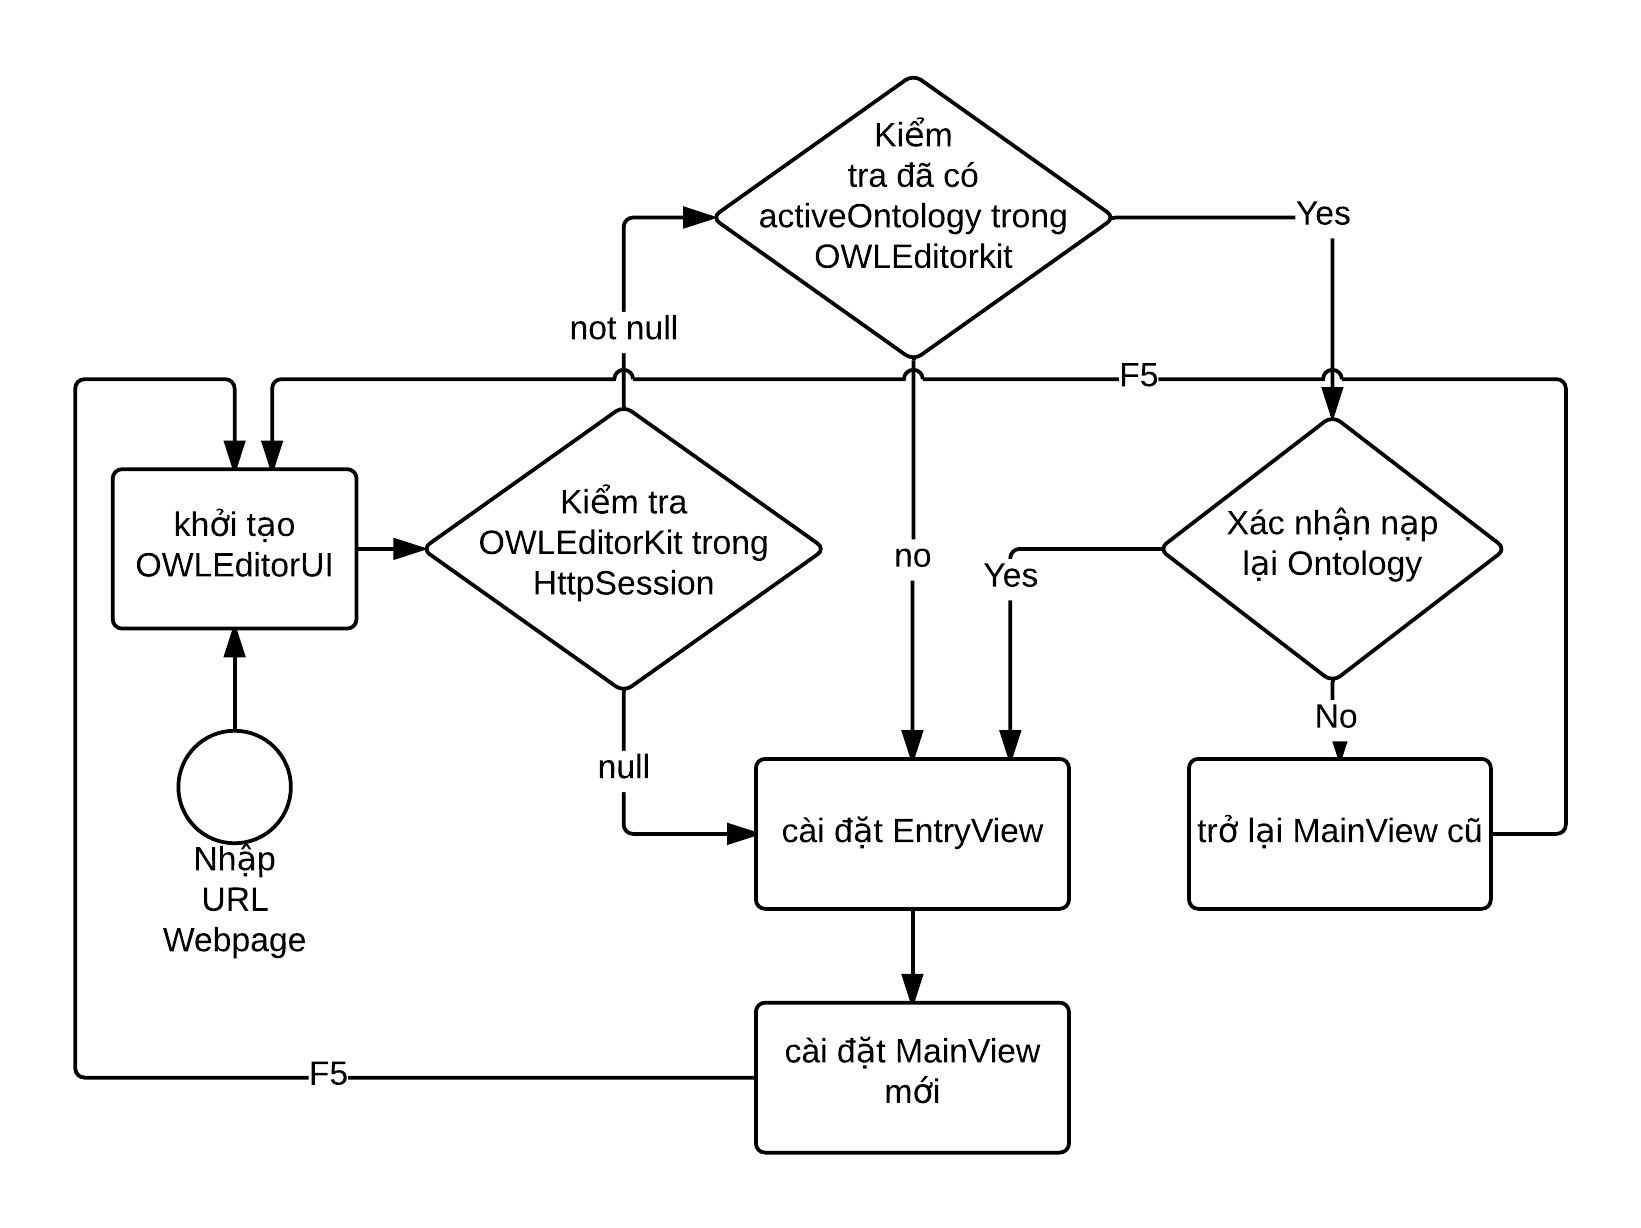
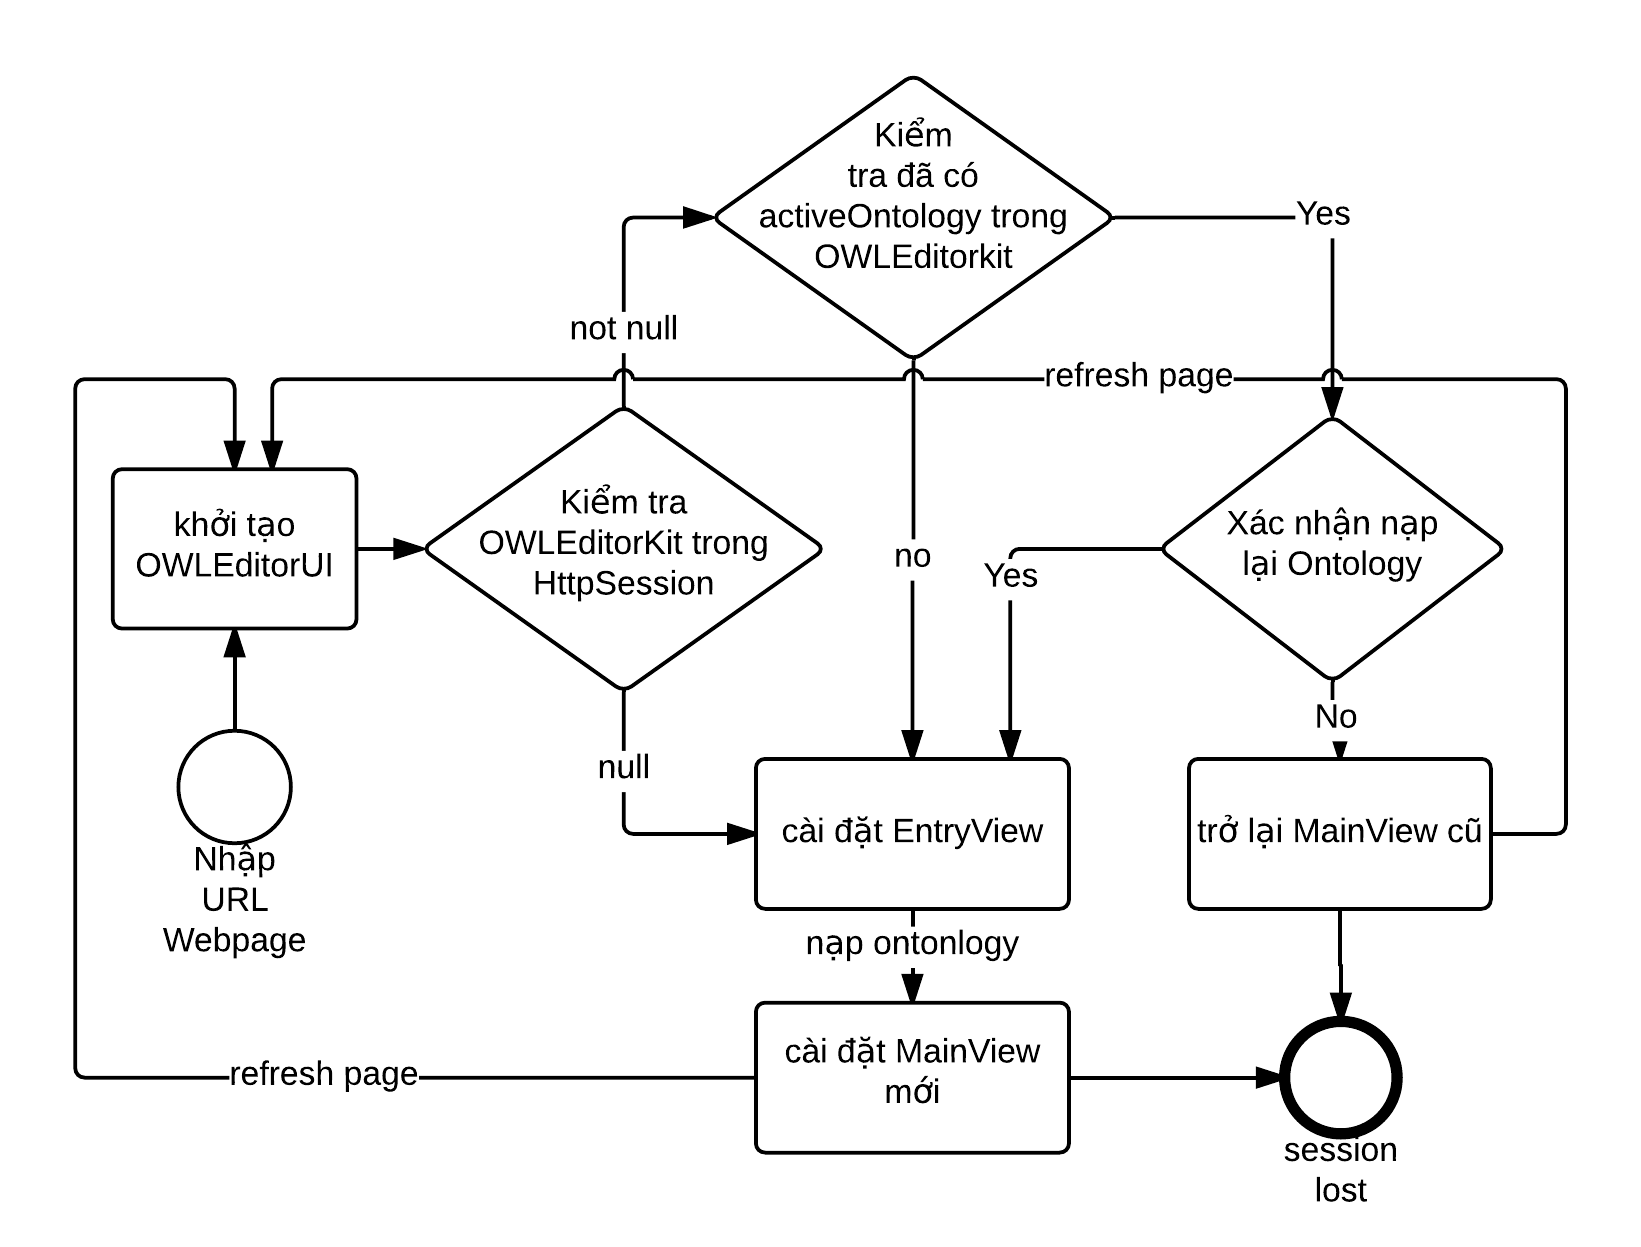
Wrote OWLEditorUI

diff --git a/Chapters/xaydunghethong.tex b/Chapters/xaydunghethong.tex
@@ -1,23 +1,73 @@
 \chapter{Xây dựng hệ thống phân loại tự động}
 \paragraph{Giới thiệu} Qua các chương trước, chúng em đã trình bày các cơ sở lý thuyết gồm OWL 2, SWRL, đề ra các thiết kế cho hệ thống và thiết kế một ontology sử dụng cho việc phân loại. Trong chương này, chúng em sẽ trình bày lại quá trình xây dựng hệ thống phân loại dựa trên các thiết kế ở chương trước.
-\section{UI của ứng dụng}
-\subsection{OWLEditorUI}
-Lớp này được mở rộng từ lớp \textbf{UI} của Vaadin, công việc chính của một lớp \textbf{UI} khởi tạo các  giao diện, từ đây lớp UI sẽ đảm nhiệm các công việc như nạp tất cả UI Components được khai báo bên trong, cài đặt các event listener để tiếp nhận thao tác từ người dùng. Cuối cùng UI được load lên trình duyệt bằng URL, hoặc được nhúng vào bất kì trang HTML nào \cite{vaadinarchitecture}. OWLEditorUI mở rộng các chức năng trên như sau:
+\section{UI của ứng dụng - OWLEditorUI}
+\subsection{Giới thiệu OWLEditorUI}
+Lớp này được mở rộng từ lớp \textbf{UI} của Vaadin - chức năng cơ bản của \textbf{UI} là nơi khởi tạo mọi thành phần giao diện và trình bày nó dưới dạng HTML trên web page, OWLEditorUI mở rộng các chức năng trên như sau:
 \begin{itemize}
-\item Chứa EntryView, MainView.
+\item Chứa EntryView, MainView (các View này chứa tất cả thành phần giao diện của hệ thống)
 \item Cập nhật và cài đặt MainView khi ontology được nạp vào EntryView.
 \item Cập nhật trạng thái khi người dùng refresh trang.
-\item Khởi tạo OWLEditorKit và cung cấp nó dưới dụng phương thức tĩnh
-\begin{verbatim}
-@Autowired OWLEditorKit eKit;
-public static OWLEditorKit getOWLEditorKit() {
-  ((OWLEditorUI) UI.getCurrent()).eKit; }
-\end{verbatim}
-\item EventBus cũng được cung cấp tương tự 
-\begin{verbatim}
-@Autowired OWLEditorEventBus eventBus;
-public static OWLEditorEventBus getEventBus() {
-  ((OWLEditorUI) UI.getCurrent()).eventBus; }	
-}
-\end{verbatim}
+\item Khởi tạo OWLEditorKit một lần và cung cấp nó qua phương thức tĩnh \textit{getOWLEditorKit()} 
+\item Khới tạo EventBus một lần và cung cấp qua các phương thức tĩnh sau \textit{getGuavaEventBus()}
+\item Chứa HttpSession và cung cấp qua phương thức tĩnh \textit{getHttpSession()} 
 \end{itemize}
+\subsection{Chi tiết các chức năng của OWLEditorUI}
+Trước khi đi vào chi tiết các chức năng trên, chúng em muốn giới thiệu sơ quan về việc cách Spring Boot \cite{springboot} hoạt động, các Annotation cần được sử dụng trong việc xây dựng hệ thống.
+\\
+\textbf{Spring Boot} Khi chương trình khởi động - ở đây không nói đến khi chúng ta nhập URL vào webpage mà chúng em đang muốn nói đến khi chương trình được nạp vào một hệ thống Servlet như Tomcat, Jetty thì điểm đầu tiên của nó xuất phát sẽ từ đối tượng sau:
+\begin{verbatim}
+@SpringBootApplication public class OWLEditorApplication {
+    public static void main(String[] args) {
+       SpringApplication.run(OWLEditorApplication.class, args); }
+}
+\end{verbatim} 
+@SpringBootApplication là một tên thay thế cho 3 annotation gồm \textbf{@Configuration}, \textbf{@EnableAutoConfiguration} và \textbf{@ComponentScan} (sẽ được giới thiệu ở dưới), mục tiêu của đối tượng này là khởi động ứng dụng, quét hết trong package hiện hành tới package con để tìm các Component Bean cần thiết để khởi tạo và thực thi các Bean đó. Cụ thể ở đây, nó sẽ quét vào tìm thấy \textbf{OWLEditorUI} được đánh dấu bằng \textbf{@VaadinUI} và chạy theo cấu hình có săn được định nghĩa trong theo dự án Spring 4 Vaadin \cite{spring4vaadin}. Từ đây mọi thứ sẽ diễn ra trong \textbf{OWLEditorUI}. Ý nghĩa của các Annotation:
+\begin{itemize}	
+\item \textbf{@VaadinUI} Là annotation của dự án Spring 4 Vaadin \cite{spring4vaadin} khai báo một lớp là một Bean và là một Vaadin \textbf{UI} cho hệ thống Spring Boot.
+\item \textbf{@VaadinComponent} Là annotation của dự án Spring 4 Vaadin, tương tự annotation @Component của Spring Framework: khai báo đây là một Bean cơ bản nhất cho hệ thống Spring Boot.
+\item \textbf{@Repository} Là annotation của Spring Framework, khai báo một đối tượng là một Bean với tính chất là một nơi để lấy và khai thác dữ liệu, OWLEditorKit được khai báo bằng annotation này.
+\item \textbf{@Autowired} Là annotaion của Spring Framework, dùng nạp tự động các Bean đã được khai báo (bằng các annotatio như @VaadinComponent, @Component, @Repository, ...) vào hệ thống, cụ thể chúng em dùng chúng để nạp OWLEditorKit, HttpSession và OWLEditorEventBus vào OWLEditorUI.
+\item \textbf{@Theme} Là annotation của Vaadin dùng để nạp thành phần tùy chỉnh CSS cho toàn bộ giao diện của hệ thống.
+\item \textbf{@EnableAutoConfiguration} Là annotation của Spring Boot, bật tính năng cấu hình tự động (mọi cấu hình về DataBase, Base Url,... sẽ ở trạng thái mặc định).
+\item \textbf{@ComponentScan} Là annotation của Spring, tự động quét và tìm các Bean từ package hiện hành và khởi tạo chúng.
+\item \textbf{@Nonnull} Là annotation từ JSR-305, đảm bảo tham số nhập vào không được null, nếu null tự động throw NullPointerException.
+\end{itemize}
+\subsubsection{Sử dụng OWLEditorKit trong OWLEditorUI}
+Như đã nói sơ qua, thì \textbf{OWLEditorKit} được định nghĩa là một Bean của hệ thống nên khi khởi động nó sẽ được tạo ra nhờ tính năng quét Bean vừa giới thiệu. Trong OWLEditorUI, chúng ta sẽ nạp (inject) nó vào OWLEditorUI và tạo một phương thức tĩnh để có thể sử dụng từ các thành phần giao diện như sau:
+\begin{verbatim}
+@Autowired OWLEditorKit eKit; 
+public static OWLEditorKit getOWLEditorKit() {
+  ((OWLEditorKit) UI.getCurrent()).eKit; }
+\end{verbatim}
+Lưu ý: \textit{UI.getCurrent()} là một hàm tiện ích của Vaadin nhằm trả về UI đang chạy hiện hành, trong hệ thống mà chúng em xây dựng chỉ có duy nhất một UI là OWLEditorUI nên sẽ ép kiểu trực tiếp, trong trường hợp có nhiều UI cần lưu ý vấn đề kiểm tra loại UI.Trong source code \cite{owleditorSrc}, chúng em chỉ khai báo Annotation @Repository cho lớp \textit{OWLEditorKitImpl} vậy tại sao @Autowired lại biết mà khởi tạo được ? Câu trả lời là hệ thống sẽ quét và tìm đến các lớp áp dụng interface OWLEditorKit mà có Annotation khai báo để khởi tạo. Để đơn giản ở đây chúng em sẽ dùng hàm khởi tạo mặc định trong OWLEditorKitImpl, ngoài ra còn rất nhiều cách thức @Autowired (hoặc inject) khác có thể tham khảo ở \cite{springboot}.
+\subsubsection{Sử dụng OWLEditorEventBus trong OWLEditorUI}
+Trong thiết kế chúng em sẽ sử dụng \textit{một} EventBus để xử lý sự kiện cho hệ thống, vì vậy sẽ dễ dàng hơn nếu nó được khởi tạo một lần trong OWLEditorUI và cung cấp dưới dạng phương thức tĩnh. Đầu tiên là cấu trúc của một lớp dùng chứa EventBus thật sự và cách tạo ra các hàm tĩnh.
+\begin{verbatim}
+@VaadinComponent public class OWLEditorEventBus {
+  private final EventBus realEventBus = new EventBus(this); //từ Guava API
+  public static void post(@Nonnull final Object event) {
+    OWLEditorUI.getGuavaEventBus().realEventBus.post(event);  }
+  public static void register(@Nonnull final Object obj) { ... } ...
+}
+// Trong OWLEditorUI
+@Autowired OWLEditorEventBus eventBus;
+public static OWLEditorEventBus getGuavaEventBus() {
+  ((OWLEditorKit) UI.getCurrent()).eventBus; }
+\end{verbatim}
+Vậy để sử dụng Guava EventBus trong OWLEditorUI, chỉ cần gọi \textit{OWLEditorUI. getGuavaEventBus} hoặc đơn giản hơn \textit{OWLEditorEventBus. <tên phương thức>}.
+\subsubsection{Sử dụng HttpSession trong OWLEditorUI}
+Tương tự 2 thành phần trên, HttpSession cũng là một Bean có sẵn của Spring nên chúng ta có thể nạp vào OWLEditorUI và sử dụng như sau:
+\begin{verbatim}
+@Autowired HttpSession httpSession;
+public static HttpSession getHttpSession() {
+ return ((OWLEditorUI) getCurrent()).httpSession; }
+\end{verbatim}
+\subsubsection{Cập nhật trạng thái giữa EntryView và MainView}
+\begin{figure}[h!]
+	\centering
+	\includegraphics[width=150mm]{Figures/owleditorui_flowchart.png}
+	\caption{Vòng đời của các view trong OWLEditorUI \label{overflow}}
+\end{figure}
+Mỗi lần chúng ta vào trang url của ứng dụng hay refresh thì vòng đời của các View sẽ diễn ra như trong hình 4.1. Việc kiểm tra các điều kiện đều nằm trong phương thức \textbf{updateContent} của OWLEditorUI.
+\textbf{Tóm lại} OWLEditorUI là nơi sẽ cung cấp các thành phần lõi của hệ thống như OWLEditorKit, EventBus và HttpSession. Tiếp theo, chúng em sẽ trình bày cách xây dựng các View và thành phần của chúng.
+\section{Xây dựng EntryView}
